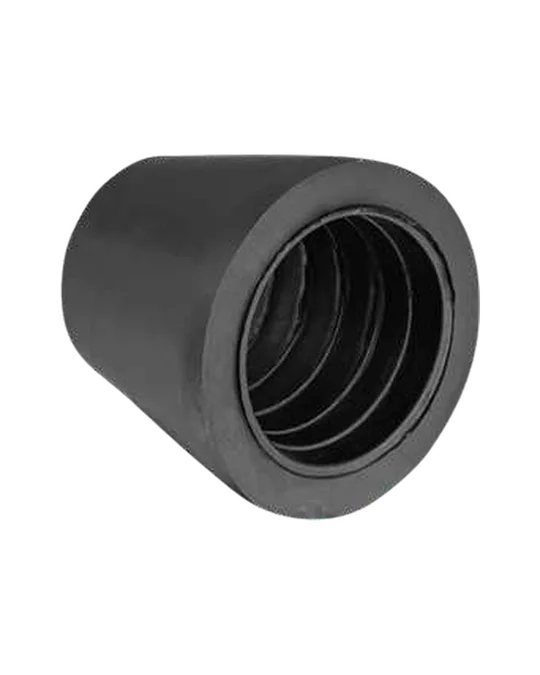
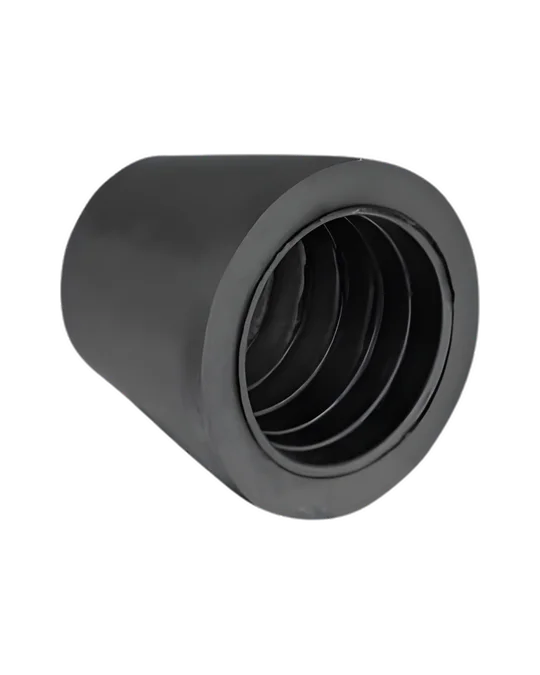
Upscaled photo: Hose Rubber (OSS-110026) re-made from a 4x upscale, label off, 1440 photo on
20 flagged on-view supplier photos were upscaled 4x (Real-ESRGAN x4plus, Lanczos + sharpen where it
reshaped label text) and judged at display size (1440 grid, 390@3x product page) by a design review.
Only acc-p76 came out crisper and clean; the other 19 stay flagged (garbled ring/logo text, smoothed
grain or glitter, or no visible gain). photos.py / photos_acc.py keep a recorded upscale
(suppliers/<s>/upscaled.json: source PDF and file hashes) on rebuild and warn when it no longer
matches. Live SQL (not applied): catalog/live/upscaled-photos-2026-11-27.sql, guarded, in the seed list.

Claude-Session: https://claude.ai/code/session_01E9pd4ZHmcwx6MYD1V7M6Jz

diff --git a/store/tools/catalog/photos.py b/store/tools/catalog/photos.py
@@ -3,7 +3,8 @@
   python store/tools/catalog/photos.py [--pdf PATH] [--work DIR] [--publish]
 
 Ace's photos are already cut out: nearly every embedded image carries its own soft mask. This script
-extracts image + mask (no background removal, no AI upscaling), sorts each image into hero / colour / group /
+extracts image + mask (no background removal, no AI upscaling here; a photo upscaled by hand and recorded in
+suppliers/<supplier>/upscaled.json is kept as it is, status ready, while its files and source match), sorts each image into hero / colour / group /
 kit / lifestyle, splits rows of colours at the gaps in the mask, frames each product at 720x900 (product
 810 px tall, 45 px foot, centred; -m 540x675, -s 360x450; Lanczos only; WebP method 4) and flags anything
 enlarged past 1.25x as CHECK. It writes a manifest (store/catalog/suppliers/ace/photos.json) and contact
@@ -148,6 +149,36 @@ def frame(rgba: Image.Image):
     c = Image.new("RGBA", (W, H), (0, 0, 0, 0))
     c.alpha_composite(r, ((W - r.width) // 2, H - FOOT - r.height))
     return c, s, bb
+
+
+def upscaled_kept(supplier: str, public: Path, pdf: Path) -> dict:
+    """Photos re-made from a 4x upscale (store/catalog/suppliers/<supplier>/upscaled.json, owner 2026-11-27). One is kept,
+    files and "ready" status, only while it came from this same PDF and every recorded file on disk still matches its hash;
+    a rebuild never overwrites it. A dropped one is printed loudly: its row's img_lw must go back to NULL in the database,
+    or the browser asks for a -l file that --publish has just deleted."""
+    rec = C.load_json(C.SUPPLIERS / supplier / "upscaled.json", {}) or {}
+    kept = {}
+    src = C.sha256_file(pdf) if rec.get("images") else None
+    for out, r in rec.get("images", {}).items():
+        files = r.get("files") or {}
+        same_src = r.get("source_sha256") in (None, src)
+        if same_src and files and all((public / n).exists() and C.sha256_file(public / n) == h for n, h in files.items()):
+            kept[out] = r
+        else:
+            print(f"WARNING: upscaled photo {out} ({r.get('sku')}) no longer matches upscaled.json "
+                  f"({'new source PDF' if not same_src else 'files changed'}): it is rebuilt from the PDF and flagged again. "
+                  f"Remove it from upscaled.json, and set img_lw = NULL for {r.get('sku')} in the database"
+                  + (" (its -l file goes)." if r.get("lw") else "."))
+    return kept
+
+
+def apply_upscaled(it: dict, kept: dict):
+    """Marks an image as its kept upscale when it is the same cut of the same Ace image (xref and crop unchanged)."""
+    r = kept.get(it.get("out"))
+    if r and r["xref"] == it.get("xref") and list(r["crop"]) == list(it.get("crop") or []) and it["status"] in ("CHECK", "needs_original"):
+        it["note"] = f"{it['note']}; upscaled 4x ({r['method']}) {r['date']}, was {it['status']} {it['scale']}x"
+        it["status"] = "ready"
+        it["upscaled"] = sorted(r["files"])
 
 
 def save_set(canvas: Image.Image, base: Path):
@@ -308,6 +339,7 @@ def run(pdf: Path, work: Path, publish: bool):
         for im in pg.get_images(full=True):
             smask_of[im[0]] = im[1]
     overrides = C.load_json(C.SUPPLIERS / "ace" / "photo-overrides.json", {}).get("images", {})
+    kept = upscaled_kept("ace", PUBLIC, pdf)
     images = []
     for r in order:
         f = fams[r["page"]]
@@ -383,6 +415,7 @@ def run(pdf: Path, work: Path, publish: bool):
             out = base if names_used[base] == 1 else f"{base}-{names_used[base]}"
             it["out"] = f"ace/{out}"
             it["file"] = it["tmp"] + "-s.webp"
+            apply_upscaled(it, kept)   # after roles are set, so an upscale never reshuffles which photo is the hero
             images.append(it)
     # publish: only the images a product row will show (matched to a colour, or the family's hero)
     shipped = [im for im in images if im.get("status") in SHOWN and im.get("role") in ("hero", "colour")]
@@ -390,6 +423,9 @@ def run(pdf: Path, work: Path, publish: bool):
         PUBLIC.mkdir(parents=True, exist_ok=True)
         want = set()
         for im in shipped:
+            if im.get("upscaled"):   # its upscaled files (with the 1440 -l) stay exactly as they are
+                want.update(im["upscaled"])
+                continue
             for suf, _, _ in SIZES:
                 src = Path(im["tmp"] + suf + ".webp")
                 dst = PUBLIC / (im["out"].split("/", 1)[1] + suf + ".webp")

diff --git a/store/tools/catalog/photos_acc.py b/store/tools/catalog/photos_acc.py
@@ -2,7 +2,8 @@
 
   python store/tools/catalog/photos_acc.py [--pdf PATH] [--work DIR] [--publish]
 
-One photo per ticked page: the page's cut-out with its own soft mask (no background removal, no AI upscaling). A group
+One photo per ticked page: the page's cut-out with its own soft mask (no background removal, no AI upscaling here; a
+kept upscale in suppliers/ace-acc/upscaled.json stays as it is, see photos.upscaled_kept). A group
 shot (rope bowls, D-61, silicone and ice cream bowls, brushes, connectors) stays one photo of the group. Loose specks under
 1% of the mask (a stray watermark, a fleck) are left out. Framed at 720x900 (product 810 px tall, 45 px foot, centred;
 -m and -s), status by enlargement: ready up to 1.25x, CHECK past it, needs_original past 2x (both go up labelled
@@ -69,6 +70,7 @@ def run(pdf: Path, work: Path, publish: bool):
     framed = work / "framed"
     framed.mkdir(parents=True, exist_ok=True)
     images = []
+    kept = P.upscaled_kept("ace-acc", PUBLIC, pdf)
     for r in pages:
         fid = f"acc-p{r['page']}"
         ph = r["photo"]
@@ -103,14 +105,19 @@ def run(pdf: Path, work: Path, publish: bool):
             note += f"; enlarged {s:.2f}x from a small source: needs Ace's original"
         tmp = framed / fid
         P.save_set(cv, tmp)
-        images.append({"page": r["page"], "family_id": fid, "xref": ph["xref"], "src_px": [int(rgb.shape[1]), int(rgb.shape[0])],
-                       "crop": list(bb), "scale": round(s, 3), "status": status, "out": f"acc/{fid}", "note": note,
-                       "tmp": str(tmp), "file": str(tmp) + "-s.webp"})
+        it = {"page": r["page"], "family_id": fid, "xref": ph["xref"], "src_px": [int(rgb.shape[1]), int(rgb.shape[0])],
+              "crop": list(bb), "scale": round(s, 3), "status": status, "out": f"acc/{fid}", "note": note,
+              "tmp": str(tmp), "file": str(tmp) + "-s.webp"}
+        P.apply_upscaled(it, kept)
+        images.append(it)
     if publish:
         PUBLIC.mkdir(parents=True, exist_ok=True)
         want = set()
         for im in images:
             if not im.get("tmp"):
+                continue
+            if im.get("upscaled"):   # its upscaled files (with the 1440 -l) stay exactly as they are
+                want.update(im["upscaled"])
                 continue
             for suf, _, _ in P.SIZES:
                 src = Path(im["tmp"] + suf + ".webp")

diff --git a/store/catalog/SCHEMA.md b/store/catalog/SCHEMA.md
@@ -69,6 +69,10 @@ Ace group (Full size, Stem set, Compact and travel, Statement piece) is a writte
 Photo status: `ready`; `CHECK` (enlarged past 1.25x: ask Ace for the original); `hand_crop` (products touch, needs a
 drawn crop); `needs_original` (enlarged past 2x). Owner ruling 2026-11-24: `CHECK`, `needs_original` and `hand_crop` photos all go up as the main photo with "Photo to be upscaled"; `family_hero_only` (no photo of this colour, the family's main photo stands in); `none`;
 `needs_store_photo` (charcoal and foil).
+A `CHECK` or `needs_original` photo re-made from a 4x upscale and passed by a design review is listed in
+`suppliers/<supplier>/upscaled.json` (method, source PDF sha256, sha256 of each published file, 1440 width): photos.py and
+photos_acc.py then keep its files and give it `ready`. If its files or the PDF change, the scripts warn and flag it again;
+its row's `img_lw` must then go back to NULL. First one: OSS-110026, 2026-11-27 (`catalog/live/upscaled-photos-2026-11-27.sql`).
 
 ## SKUs: OSS-SSNNNN
 
